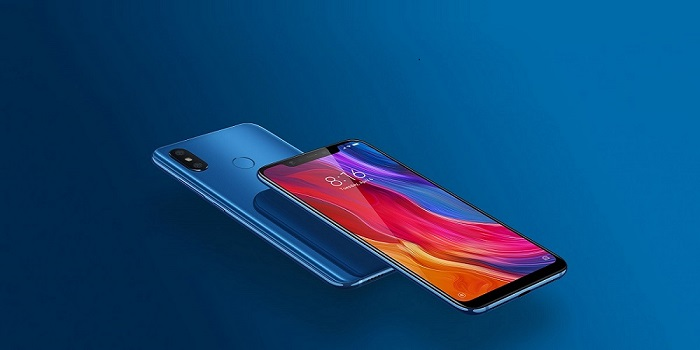
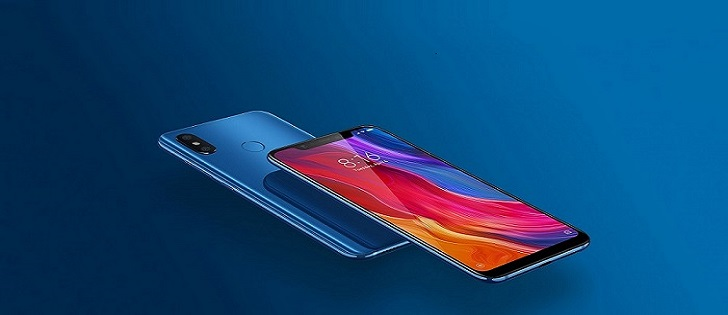
added xiaomi phone details pages

diff --git a/xiaomi_1.php b/xiaomi_1.php
@@ -1,0 +1,107 @@
+<?php
+require 'N&F.php';
+ ?>
+
+      <hr>
+			<hr>
+      <div class="container">
+      							<div class="col-lg">
+                      <h2>Xiaomi Mi 8 Pro</h2>
+      								<div class="thumbnail">
+      									<div class="row">
+      		 <img src="xiaomi\index-1.jpg"  alt="Responsive image">
+
+           <div class="col-sm" >
+           		<div class="img-thumbnail text-center">
+           		<img src="huawei\huawei-p-smart-2019-2.jpg" alt="My desktop">
+           				<div class="caption">
+           				<h5>Huawei <br>P Smart</h5>
+           				<!--p>
+           						New iPhone <br>
+           					  Get More Details
+           				</p-->
+           				<p>
+           				<a href="#" id="" class="btn btn-primary" role="button">more details</a></p>
+           				<!--<span><a href="#" class="btn btn-primary" role="button">By Now</a></span>-->
+           			</div>
+           		</div>
+           </div>
+
+      					 <table class="table">
+
+      				       <tr>
+      				         <th class="table-danger">NETWORK</th>
+      				         <th>Technology</th>
+      				         <th>GSM / HSPA / LTE</th>
+      				       </tr>
+
+      				     <tbody>
+
+      				       <tr>
+      				         <th class="table-danger">Primary</th>
+      				         <th class="table-primary">Announced <br>Status </th>
+      				         <th>2018, September <br>Available. Released 2018, September </th>
+      				       </tr>
+
+      				       <tr>
+      				         <th class="table-danger">BODY</th>
+      				         <th>Dimensions <br>Weight <br>Build <br>SIM <br>-- </th>
+      				         <th>154.9 x 74.8 x 7.6 mm (6.10 x 2.94 x 0.30 in)<br>177 g (6.24 oz)<br>Front/back glass, aluminum frame (7000 series)<br>Dual SIM (Nano-SIM, dual stand-by)</th>
+      				       </tr>
+
+      							 <tr>
+      				         <th class="table-danger">DISPLAY</th>
+      				         <th>Type <br>Size <br>Resolution <br>Protection <br>-- </th>
+      				         <th>LED-backlit IPS LCD, capacitive touchscreen, 16M colors
+      <br>4.7 inches, 60.9 cm2 (~65.6% screen-to-body ratio) <br>750 x 1334 pixels, 16:9 ratio (~326 ppi density) <br>Ion-strengthened glass, oleophobic coating <br>3D Touch</th>
+      				       </tr>
+
+      							 <tr>
+      				         <th class="table-danger">PLATFORM</th>
+      				         <th class="table-primary">Os <br>Chipset <br>CPU <br>GPU </th>
+      				         <th>Android 8.1 (Oreo); MIUI 10<br>Qualcomm SDM845 Snapdragon 845 (10 nm) <br>Octa-core (4x2.8 GHz Kryo 385 Gold & 4x1.8 GHz Kryo 385 Silver)<br>Adreno 630</th>
+      				       </tr>
+
+      							 <tr>
+      				         <th class="table-danger">MEMORY</th>
+      				         <th class="table-primary">Card slot <br>Internal </th>
+      				         <th>NO<br>128 GB, 6/8 GB RAM </th>
+      				       </tr>
+
+      							 <tr>
+      				         <th class="table-danger">MAIN CAMERA</th>
+      				         <th class="table-primary">Single <br>Features <br>Video </th>
+      				         <th>5 MP, f/2.2, 31mm (standard)<br>Face detection, HDR, panorama <br>1080p@30fps </th>
+      				       </tr>
+
+      							 <tr>
+      				         <th class="table-danger">COMMS</th>
+      				         <th>WLAN <br>Bluetooth <br>GPS <br>NFC <br>Radio <br>USB </th>
+      				         <th>Wi-Fi 802.11 a/b/g/n/ac, dual-band, hotspot<br>4.2, A2DP, LE <br>Yes, with A-GPS, GLONASS, GALILEO, QZSS <br>Yes (Apple Pay only) <br>NO <br>2.0, proprietary reversible connector </th>
+      				       </tr>
+
+      							 <tr>
+      				         <th class="table-danger">FEATURES</th>
+      				         <th>Sensors <br>-- </th>
+      				         <th>Fingerprint (front-mounted), accelerometer, gyro, proximity, compass, barometer <br>Siri natural language commands and dictation </th>
+      				       </tr>
+
+      							 <tr>
+      				         <th class="table-danger">BATTERY</th>
+      				         <th class="table-primary">-- <br>Stand-by <br>Talk time <br>Music play </th>
+      				         <th>Non-removable Li-Ion 1715 mAh battery (6.91 Wh) <br>Up to 240 h (3G) <br>Up to 14 h (3G) <br>Up to 50 h </th>
+      				       </tr>
+
+      				     </tbody>
+      				   </table>
+      </div>
+         </div>
+      </div>
+      </div>
+
+<?php
+require 'shops.php';
+require 'footer.php';
+ ?>
+			    </body>
+			</html>

diff --git a/N&F.php b/N&F.php
@@ -163,7 +163,7 @@
       <div class="collapse navbar-collapse" id="main-nav">
         <ul class="navbar-nav ml-auto">
           <li class="nav-item">
-            <a class="nav-link" href="#">Home</a>
+            <a class="nav-link" href="test.php">Home</a>
           </li>
           <li class="nav-item active">
             <a class="nav-link" href="About.php">About <span class="sr-only">(current)</span></a>

diff --git a/xiaomi.php b/xiaomi.php
@@ -6,7 +6,7 @@ require 'N&F.php';
       <div class="jumbotron-fluid">
       <div class="col-sm">
       <div class="thumbnail">
-      <img src="xiaomi\maxresdefault.jpg" width="85%" alt="My desktop" class="rounded mx-auto d-block">
+      <img src="xiaomi\index-2.jpg" width="85%" alt="My desktop" class="rounded mx-auto d-block">
       </div>
       </div>
       </div>
